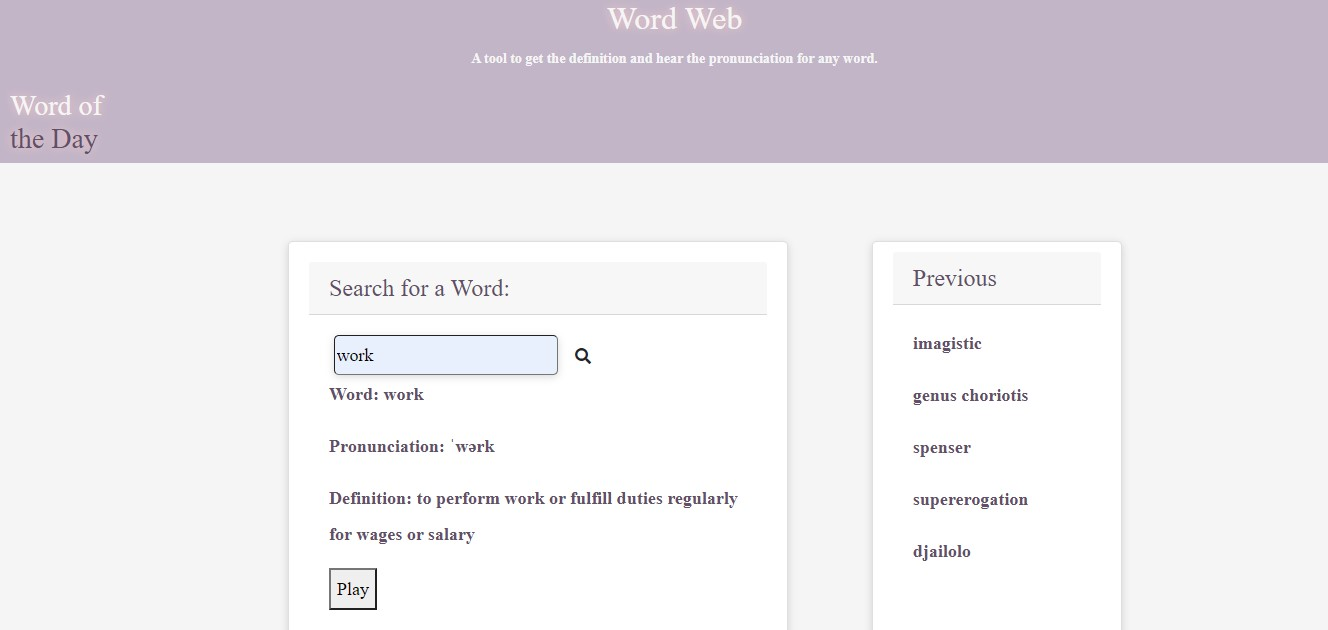
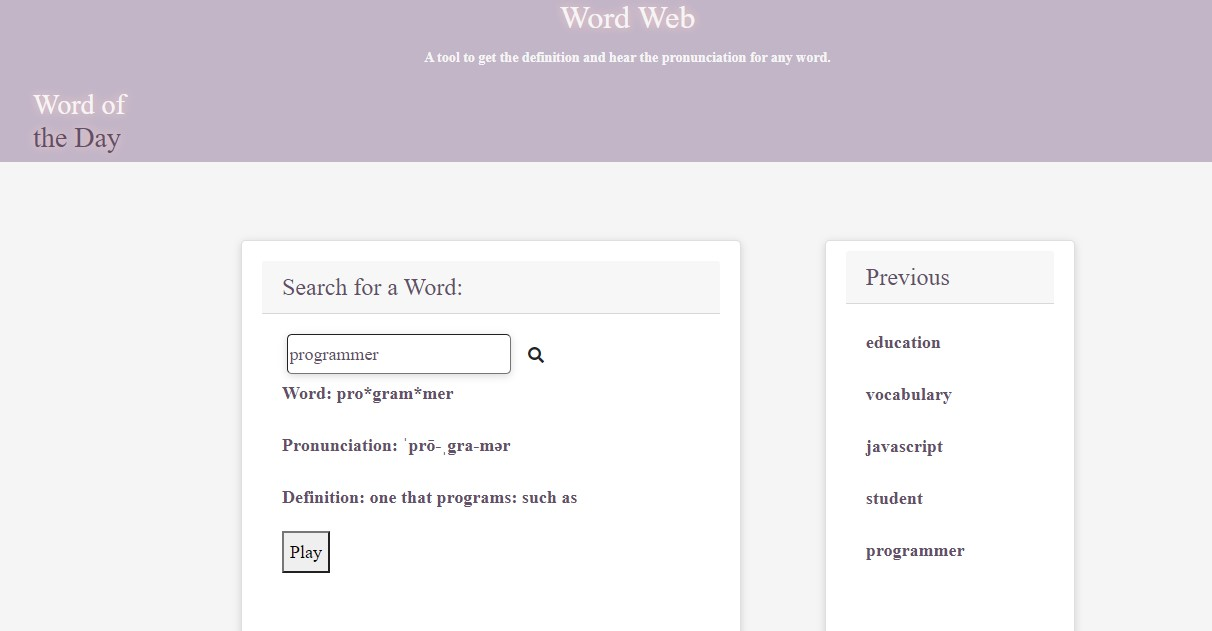
readme update

diff --git a/README.md b/README.md
@@ -3,7 +3,7 @@
 
 
 # our_app_
-* Dictionary app that allows user to search for a term returns definition, pronunciation and a new word of the day.  Provides more learning than bargained for! For those that are  avid learners and looking to “hear the word pronounced correctly”
+* Dictionary app that allows user to search for a term returns definition, pronunciation and a new word of the day.  Provides more learning than bargained for! For those that are avid learners and looking to “hear the word pronounced correctly”
 
 
 ## Built With
@@ -23,7 +23,7 @@
 * I WANT to see the definitions to searched term
 
 ## Acceptance Criteria
-* GIVEN a word is input into the dashboard 
+* GIVEN a word entered into the search form 
 * WHEN I view a searched word
 * THEN I am presented with current definition for the searched word
 * THEN I am presented with synonyms 
@@ -39,6 +39,18 @@ https://queen-stack.github.io/our_app_project/
  * Access requires internet service
 
 ![WordSearch](./assets/images/wordsearch.jpg)
+![WordSearch](./assets/images/wordsearch1.jpg)
+
+## Tested on the following browser
+Devices and Browsers used:
+* Windows 10 (64 bit) - Chrome: 85, Edge(Chromium): 85, Firefox: 80, IE11: 11.5
+* OS X (Beta Big-Sur) (64 bit) - Safari: 14, Chrome: 85, Edge(Chromium): 85, Firefox: 80 
+* IE not supported
+
+## Future Enhancement
+* edge bug fix
+* translator
+* pronunciation of the definition
 
 ## Author
 * Brian Lopez https://github.com/brianslopez
